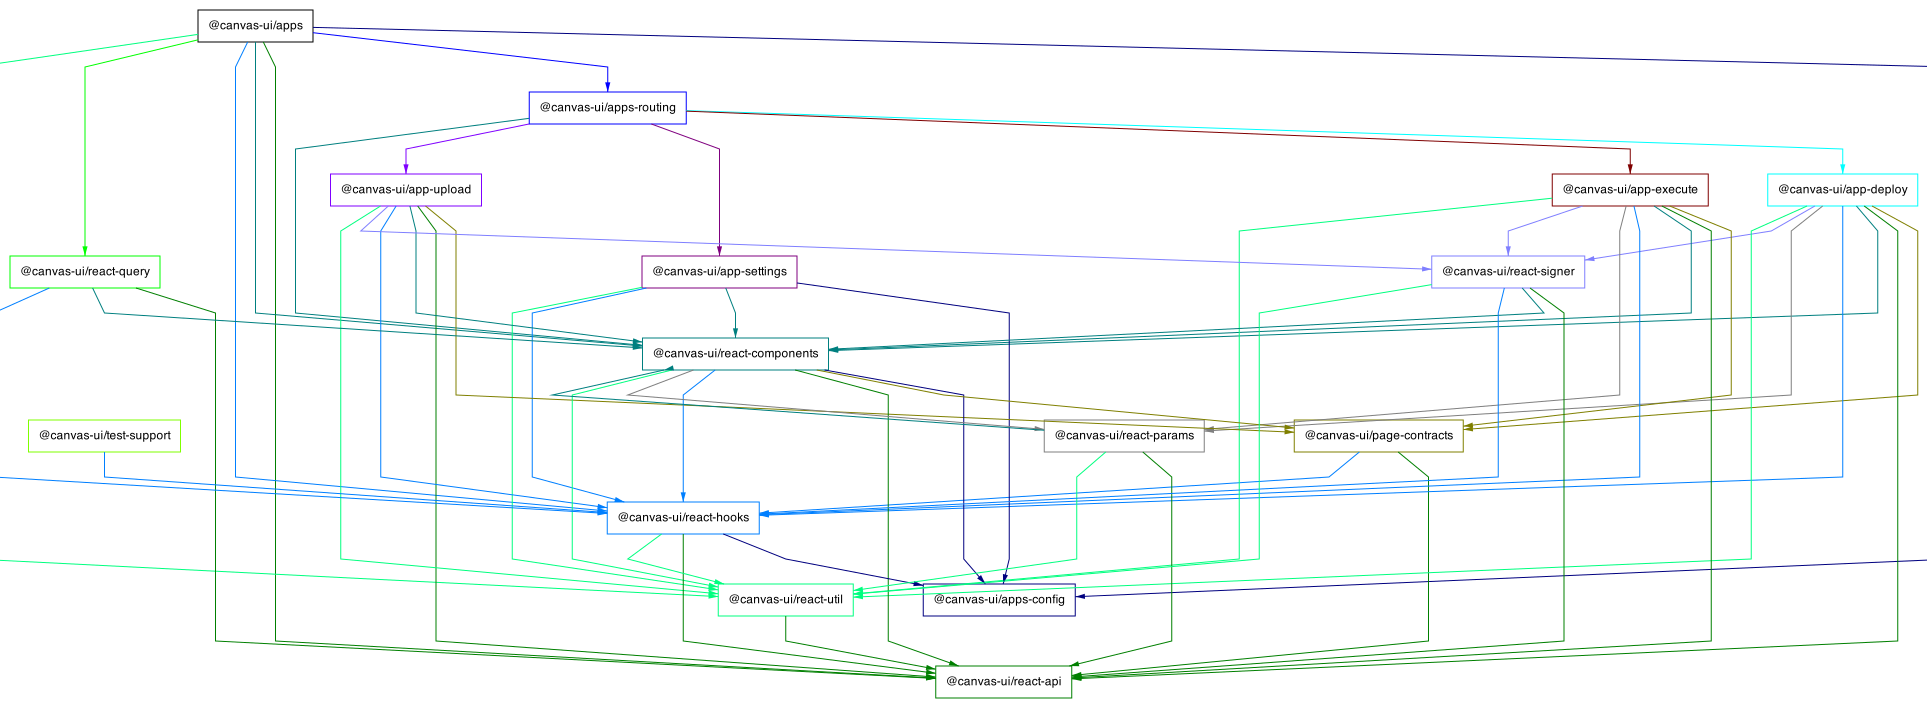
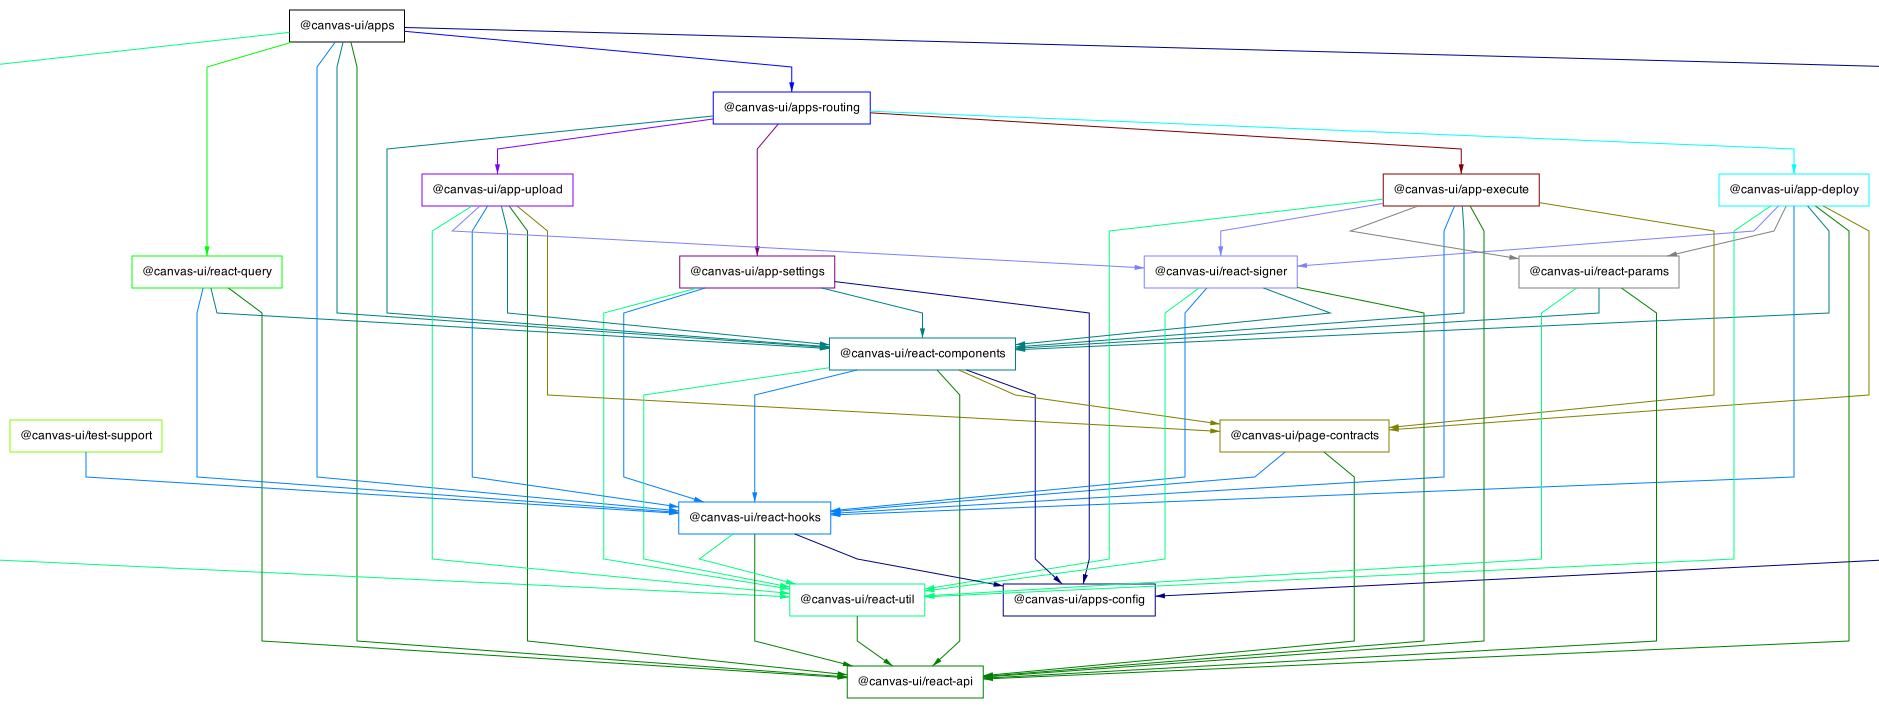
fixed references regarding react-params

diff --git a/packages/page-execute/src/Call.tsx b/packages/page-execute/src/Call.tsx
@@ -15,8 +15,8 @@ import { Button,
   TxButton } from '@canvas-ui/react-components';
 import { ComponentProps as Props } from '@canvas-ui/react-components/types';
 import { useAccountId, useAccountInfo, useFormField, useGasWeight } from '@canvas-ui/react-hooks';
-import { useTxParams } from '@canvas-ui/react-params';
-import { extractValues } from '@canvas-ui/react-params/values';
+import useTxParams from '@canvas-ui/react-components/Params/useTxParams';
+import { extractValues } from '@canvas-ui/react-components/Params/values';
 import usePendingTx from '@canvas-ui/react-signer/usePendingTx';
 import { getContractForAddress } from '@canvas-ui/react-util';
 import BN from 'bn.js';

diff --git a/packages/page-deploy/src/New.tsx b/packages/page-deploy/src/New.tsx
@@ -23,8 +23,8 @@ import { useAccountId,
   useGasWeight,
   useNonEmptyString,
   useNonZeroBn } from '@canvas-ui/react-hooks';
-import { useTxParams } from '@canvas-ui/react-params';
-import { extractValues } from '@canvas-ui/react-params/values';
+import useTxParams from '@canvas-ui/react-components/Params/useTxParams';
+import { extractValues } from '@canvas-ui/react-components/Params/values';
 import usePendingTx from '@canvas-ui/react-signer/usePendingTx';
 import { truncate } from '@canvas-ui/react-util';
 import BN from 'bn.js';

diff --git a/packages/react-params/src/Param/Vector.tsx b/packages/react-params/src/Param/Vector.tsx
@@ -9,7 +9,7 @@ import { isUndefined } from '@polkadot/util';
 import getInitValue from '@canvas-ui/react-components/Params/initValue';
 import { useTranslation } from '../translate';
 import { ParamDef, Props, RawParam } from '@canvas-ui/react-components/types';
-import Params from '../';
+import Params from '@canvas-ui/react-components/Params';
 import Base from './Base';
 import useParamDefs from './useParamDefs';
 

diff --git a/packages/react-components/src/Params/ParamComp.tsx b/packages/react-components/src/Params/ParamComp.tsx
@@ -5,8 +5,8 @@ import React, { useCallback } from 'react';
 
 import { TypeDef } from '@polkadot/types/types';
 
-import Param from './Param';
-import { ComponentMap, RawParam, RawParamOnChangeValue, RawParams } from './types';
+import Param from './Params';
+import { ComponentMap, RawParam, RawParamOnChangeValue, RawParams } from '../types';
 
 interface Props {
   defaultValue : RawParam;

diff --git a/packages/react-params/src/Param/VectorFixed.tsx b/packages/react-params/src/Param/VectorFixed.tsx
@@ -7,7 +7,7 @@ import { isUndefined } from '@polkadot/util';
 
 import getInitValue from '@canvas-ui/react-components/Params/initValue';
 import { ParamDef, Props, RawParam } from '@canvas-ui/react-components/types';
-import Params from '../';
+import Params from '@canvas-ui/react-components/Params';
 import Base from './Base';
 import useParamDefs from './useParamDefs';
 

diff --git a/packages/react-params/src/Param/Enum.tsx b/packages/react-params/src/Param/Enum.tsx
@@ -8,7 +8,7 @@ import { Enum } from '@polkadot/types';
 import { TypeDef } from '@polkadot/types/types';
 
 import { ParamDef, Props, RawParam } from '@canvas-ui/react-components/types';
-import Params from '../';
+import Params from '@canvas-ui/react-components/Params';
 import Bare from './Bare';
 import Static from './Static';
 

diff --git a/packages/react-params/src/Param/Struct.tsx b/packages/react-params/src/Param/Struct.tsx
@@ -4,7 +4,7 @@
 import React, { useCallback } from 'react';
 
 import { Props, RawParam } from '@canvas-ui/react-components/types';
-import Params from '../';
+import Params from '@canvas-ui/react-components/Params';
 import Base from './Base';
 import Static from './Static';
 import useParamDefs from './useParamDefs';

diff --git a/packages/react-params/src/Param/Tuple.tsx b/packages/react-params/src/Param/Tuple.tsx
@@ -4,7 +4,7 @@
 import React, { useCallback } from 'react';
 
 import { Props, RawParam } from '@canvas-ui/react-components/types';
-import Params from '../';
+import Params from '@canvas-ui/react-components/Params';
 import Base from './Base';
 import Static from './Static';
 import useParamDefs from './useParamDefs';
